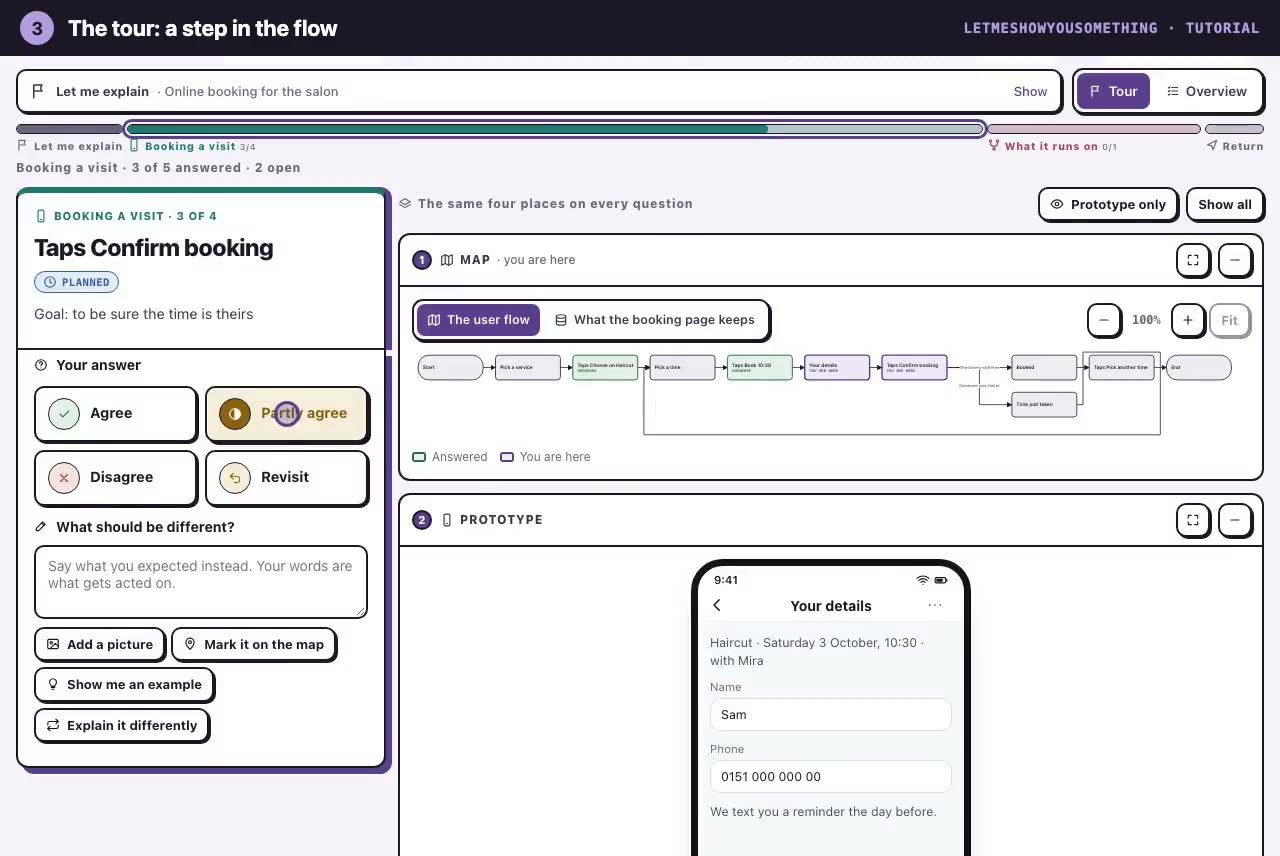
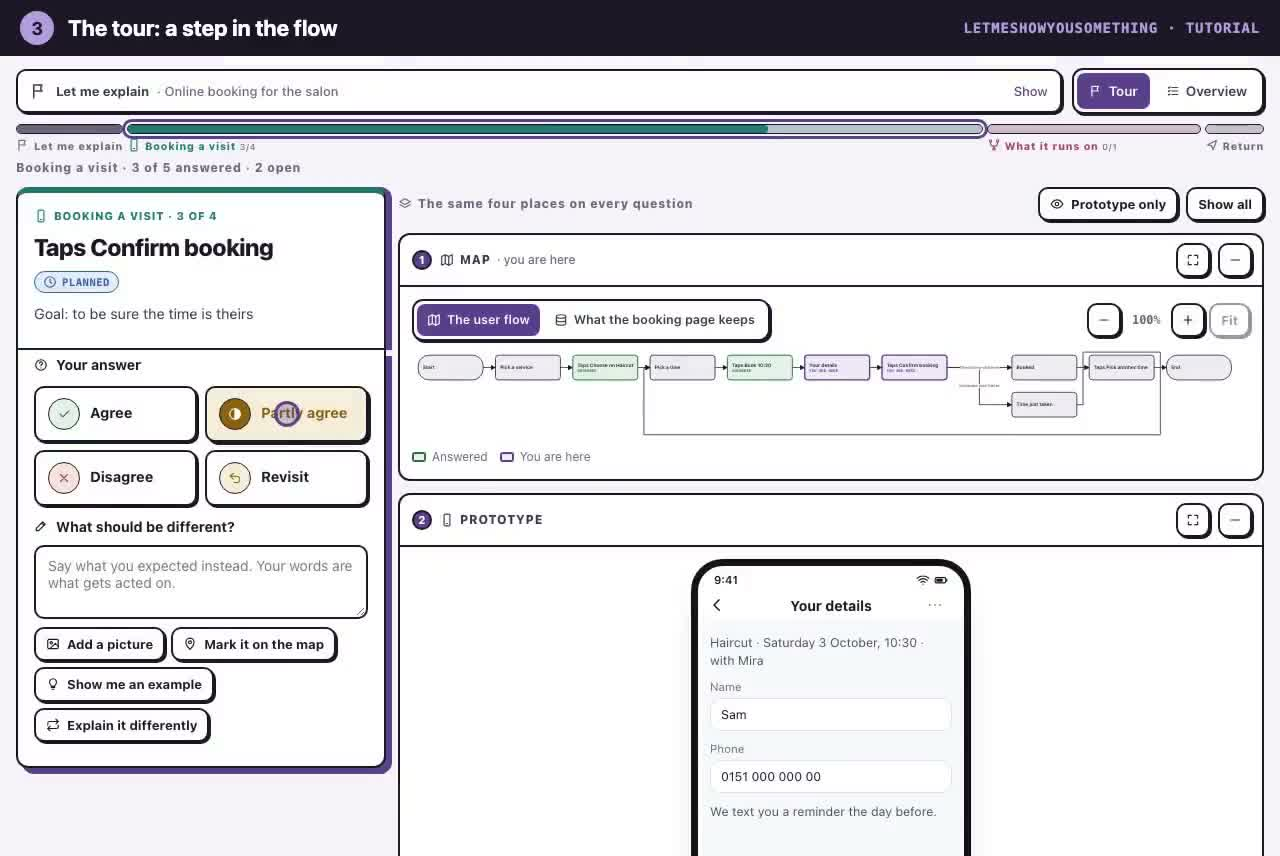
No broken links, and lighter pages (#145) (#155)
Closes #145. Items 18, 19 and 20 of the pre-launch list.

**Links**
- A new `test/links.test.mjs`, part of CI's node tests, holds every
local link and picture in the README, the wiki and the site's pages to a
file that exists. It understands the site's root-based links (404 page)
and the pages Pages renders from `examples/` and `schemas/`. I checked
it catches a broken link.
- **All 34 outside links** (GitHub, shields.io, docs) answered with 200,
checked once by hand today. A test that needs the network would be
flaky, so outside links stay a pre-launch check.

**Forms**
- The site itself has no forms. The example pages' inputs (answers,
notes, pictures, added items, downloads) are covered by the browser
tests in all 9 browser × size projects.

**Speed**
- **Landing page and README:** they now show small thumbnails of the
chapters (416 px, 12–23 KB each). The seven pictures go from 660 KB to
129 KB. The landing pop-up still plays the full video with its full
poster.
- **Tutorial:** its posters are recompressed at the same size, 660 KB to
457 KB. The text stays sharp.
- **Lighthouse** (mobile, simulated slow network), recorded:
- Landing: Performance 100, Accessibility 100, Best Practices 100, SEO
100 (151 KB, first paint 1.0 s).
- Tutorial: Performance 89–94 (it varies between runs), everything else
100 (473 KB, first paint 3.1 s).
- Salon example: Performance 94, Accessibility 98, Best Practices 100,
SEO 100.

**Follow-ups, not in this PR**
[…]

diff --git a/site/index.html b/site/index.html
@@ -109,13 +109,13 @@ footer{margin-top:48px;padding-top:16px;border-top:2px solid var(--edge);color:v
   <h2>From an idea to a plan in 7 steps</h2>
   <p>One real run: an idea for a hair salon's online booking, from the first line to the second round.</p>
   <ol class="steps">
-    <li><a href="tutorial.html#idea"><span class="num">1</span><span><b>The idea</b><span class="t">You type one line; the agent answers with the plan as one page.</span></span><img src="tutorial/1-idea.jpg" alt="" loading="lazy" width="1280" height="856"></a></li>
-    <li><a href="tutorial.html#explain"><span class="num">2</span><span><b>Let me explain</b><span class="t">What it needs from you, its recommendation, what could go wrong.</span></span><img src="tutorial/2-explain.jpg" alt="" loading="lazy" width="1280" height="856"></a></li>
-    <li><a href="tutorial.html#flow"><span class="num">3</span><span><b>A step in the flow</b><span class="t">Tap through the screens; agree, or say what should be different.</span></span><img src="tutorial/3-flow.jpg" alt="" loading="lazy" width="1280" height="856"></a></li>
-    <li><a href="tutorial.html#choice"><span class="num">4</span><span><b>What it runs on</b><span class="t">Three options side by side, with costs and a recommendation.</span></span><img src="tutorial/4-choice.jpg" alt="" loading="lazy" width="1280" height="856"></a></li>
-    <li><a href="tutorial.html#overview"><span class="num">5</span><span><b>Overview</b><span class="t">Every question beside its step and its screen, on one page.</span></span><img src="tutorial/5-overview.jpg" alt="" loading="lazy" width="1280" height="856"></a></li>
-    <li><a href="tutorial.html#return"><span class="num">6</span><span><b>Return</b><span class="t">Add what is missing, download your answers, give the file back.</span></span><img src="tutorial/6-return.jpg" alt="" loading="lazy" width="1280" height="856"></a></li>
-    <li><a href="tutorial.html#round2"><span class="num">7</span><span><b>Round 2</b><span class="t">The agent checks your file and shows what changed, before and after.</span></span><img src="tutorial/7-round2.jpg" alt="" loading="lazy" width="1280" height="856"></a></li>
+    <li><a href="tutorial.html#idea"><span class="num">1</span><span><b>The idea</b><span class="t">You type one line; the agent answers with the plan as one page.</span></span><img src="tutorial/1-idea.thumb.jpg" alt="" loading="lazy" width="1280" height="856"></a></li>
+    <li><a href="tutorial.html#explain"><span class="num">2</span><span><b>Let me explain</b><span class="t">What it needs from you, its recommendation, what could go wrong.</span></span><img src="tutorial/2-explain.thumb.jpg" alt="" loading="lazy" width="1280" height="856"></a></li>
+    <li><a href="tutorial.html#flow"><span class="num">3</span><span><b>A step in the flow</b><span class="t">Tap through the screens; agree, or say what should be different.</span></span><img src="tutorial/3-flow.thumb.jpg" alt="" loading="lazy" width="1280" height="856"></a></li>
+    <li><a href="tutorial.html#choice"><span class="num">4</span><span><b>What it runs on</b><span class="t">Three options side by side, with costs and a recommendation.</span></span><img src="tutorial/4-choice.thumb.jpg" alt="" loading="lazy" width="1280" height="856"></a></li>
+    <li><a href="tutorial.html#overview"><span class="num">5</span><span><b>Overview</b><span class="t">Every question beside its step and its screen, on one page.</span></span><img src="tutorial/5-overview.thumb.jpg" alt="" loading="lazy" width="1280" height="856"></a></li>
+    <li><a href="tutorial.html#return"><span class="num">6</span><span><b>Return</b><span class="t">Add what is missing, download your answers, give the file back.</span></span><img src="tutorial/6-return.thumb.jpg" alt="" loading="lazy" width="1280" height="856"></a></li>
+    <li><a href="tutorial.html#round2"><span class="num">7</span><span><b>Round 2</b><span class="t">The agent checks your file and shows what changed, before and after.</span></span><img src="tutorial/7-round2.thumb.jpg" alt="" loading="lazy" width="1280" height="856"></a></li>
   </ol>
   <a class="all" href="tutorial.html">Watch the tutorial →</a>
 
@@ -188,9 +188,9 @@ const player = document.getElementById('player'), video = player.querySelector('
 for (const a of document.querySelectorAll('.steps a')) a.addEventListener('click', (e) => {
   if (e.metaKey || e.ctrlKey || e.shiftKey || e.button !== 0 || !player.showModal) return;
   e.preventDefault();
-  const poster = a.querySelector('img').getAttribute('src');
-  video.poster = poster;
-  video.src = poster.replace(/\.jpg$/, '.mp4');
+  const chapter = a.querySelector('img').getAttribute('src').replace(/\.thumb\.jpg$/, '');   // the step shows a small copy
+  video.poster = chapter + '.jpg';
+  video.src = chapter + '.mp4';
   document.getElementById('player-num').textContent = a.querySelector('.num').textContent;
   document.getElementById('player-title').textContent = a.querySelector('b').textContent;
   document.getElementById('player-text').textContent = a.querySelector('.t').textContent;

diff --git a/README.md b/README.md
@@ -115,8 +115,8 @@ Each page below is the real thing: open it, press **Start**, answer, and downloa
 
 | | | | |
 |:-:|:-:|:-:|:-:|
-| [<img src="site/tutorial/1-idea.jpg" width="180" alt="">](https://shyhunter.github.io/LetMeShowYouSomething/tutorial.html#idea)<br>**1** The idea | [<img src="site/tutorial/2-explain.jpg" width="180" alt="">](https://shyhunter.github.io/LetMeShowYouSomething/tutorial.html#explain)<br>**2** Let me explain | [<img src="site/tutorial/3-flow.jpg" width="180" alt="">](https://shyhunter.github.io/LetMeShowYouSomething/tutorial.html#flow)<br>**3** A step in the flow | [<img src="site/tutorial/4-choice.jpg" width="180" alt="">](https://shyhunter.github.io/LetMeShowYouSomething/tutorial.html#choice)<br>**4** What it runs on |
-| [<img src="site/tutorial/5-overview.jpg" width="180" alt="">](https://shyhunter.github.io/LetMeShowYouSomething/tutorial.html#overview)<br>**5** Overview | [<img src="site/tutorial/6-return.jpg" width="180" alt="">](https://shyhunter.github.io/LetMeShowYouSomething/tutorial.html#return)<br>**6** Return | [<img src="site/tutorial/7-round2.jpg" width="180" alt="">](https://shyhunter.github.io/LetMeShowYouSomething/tutorial.html#round2)<br>**7** Round 2 | |
+| [<img src="site/tutorial/1-idea.thumb.jpg" width="180" alt="">](https://shyhunter.github.io/LetMeShowYouSomething/tutorial.html#idea)<br>**1** The idea | [<img src="site/tutorial/2-explain.thumb.jpg" width="180" alt="">](https://shyhunter.github.io/LetMeShowYouSomething/tutorial.html#explain)<br>**2** Let me explain | [<img src="site/tutorial/3-flow.thumb.jpg" width="180" alt="">](https://shyhunter.github.io/LetMeShowYouSomething/tutorial.html#flow)<br>**3** A step in the flow | [<img src="site/tutorial/4-choice.thumb.jpg" width="180" alt="">](https://shyhunter.github.io/LetMeShowYouSomething/tutorial.html#choice)<br>**4** What it runs on |
+| [<img src="site/tutorial/5-overview.thumb.jpg" width="180" alt="">](https://shyhunter.github.io/LetMeShowYouSomething/tutorial.html#overview)<br>**5** Overview | [<img src="site/tutorial/6-return.thumb.jpg" width="180" alt="">](https://shyhunter.github.io/LetMeShowYouSomething/tutorial.html#return)<br>**6** Return | [<img src="site/tutorial/7-round2.thumb.jpg" width="180" alt="">](https://shyhunter.github.io/LetMeShowYouSomething/tutorial.html#round2)<br>**7** Round 2 | |
 
 ## What's inside
 
